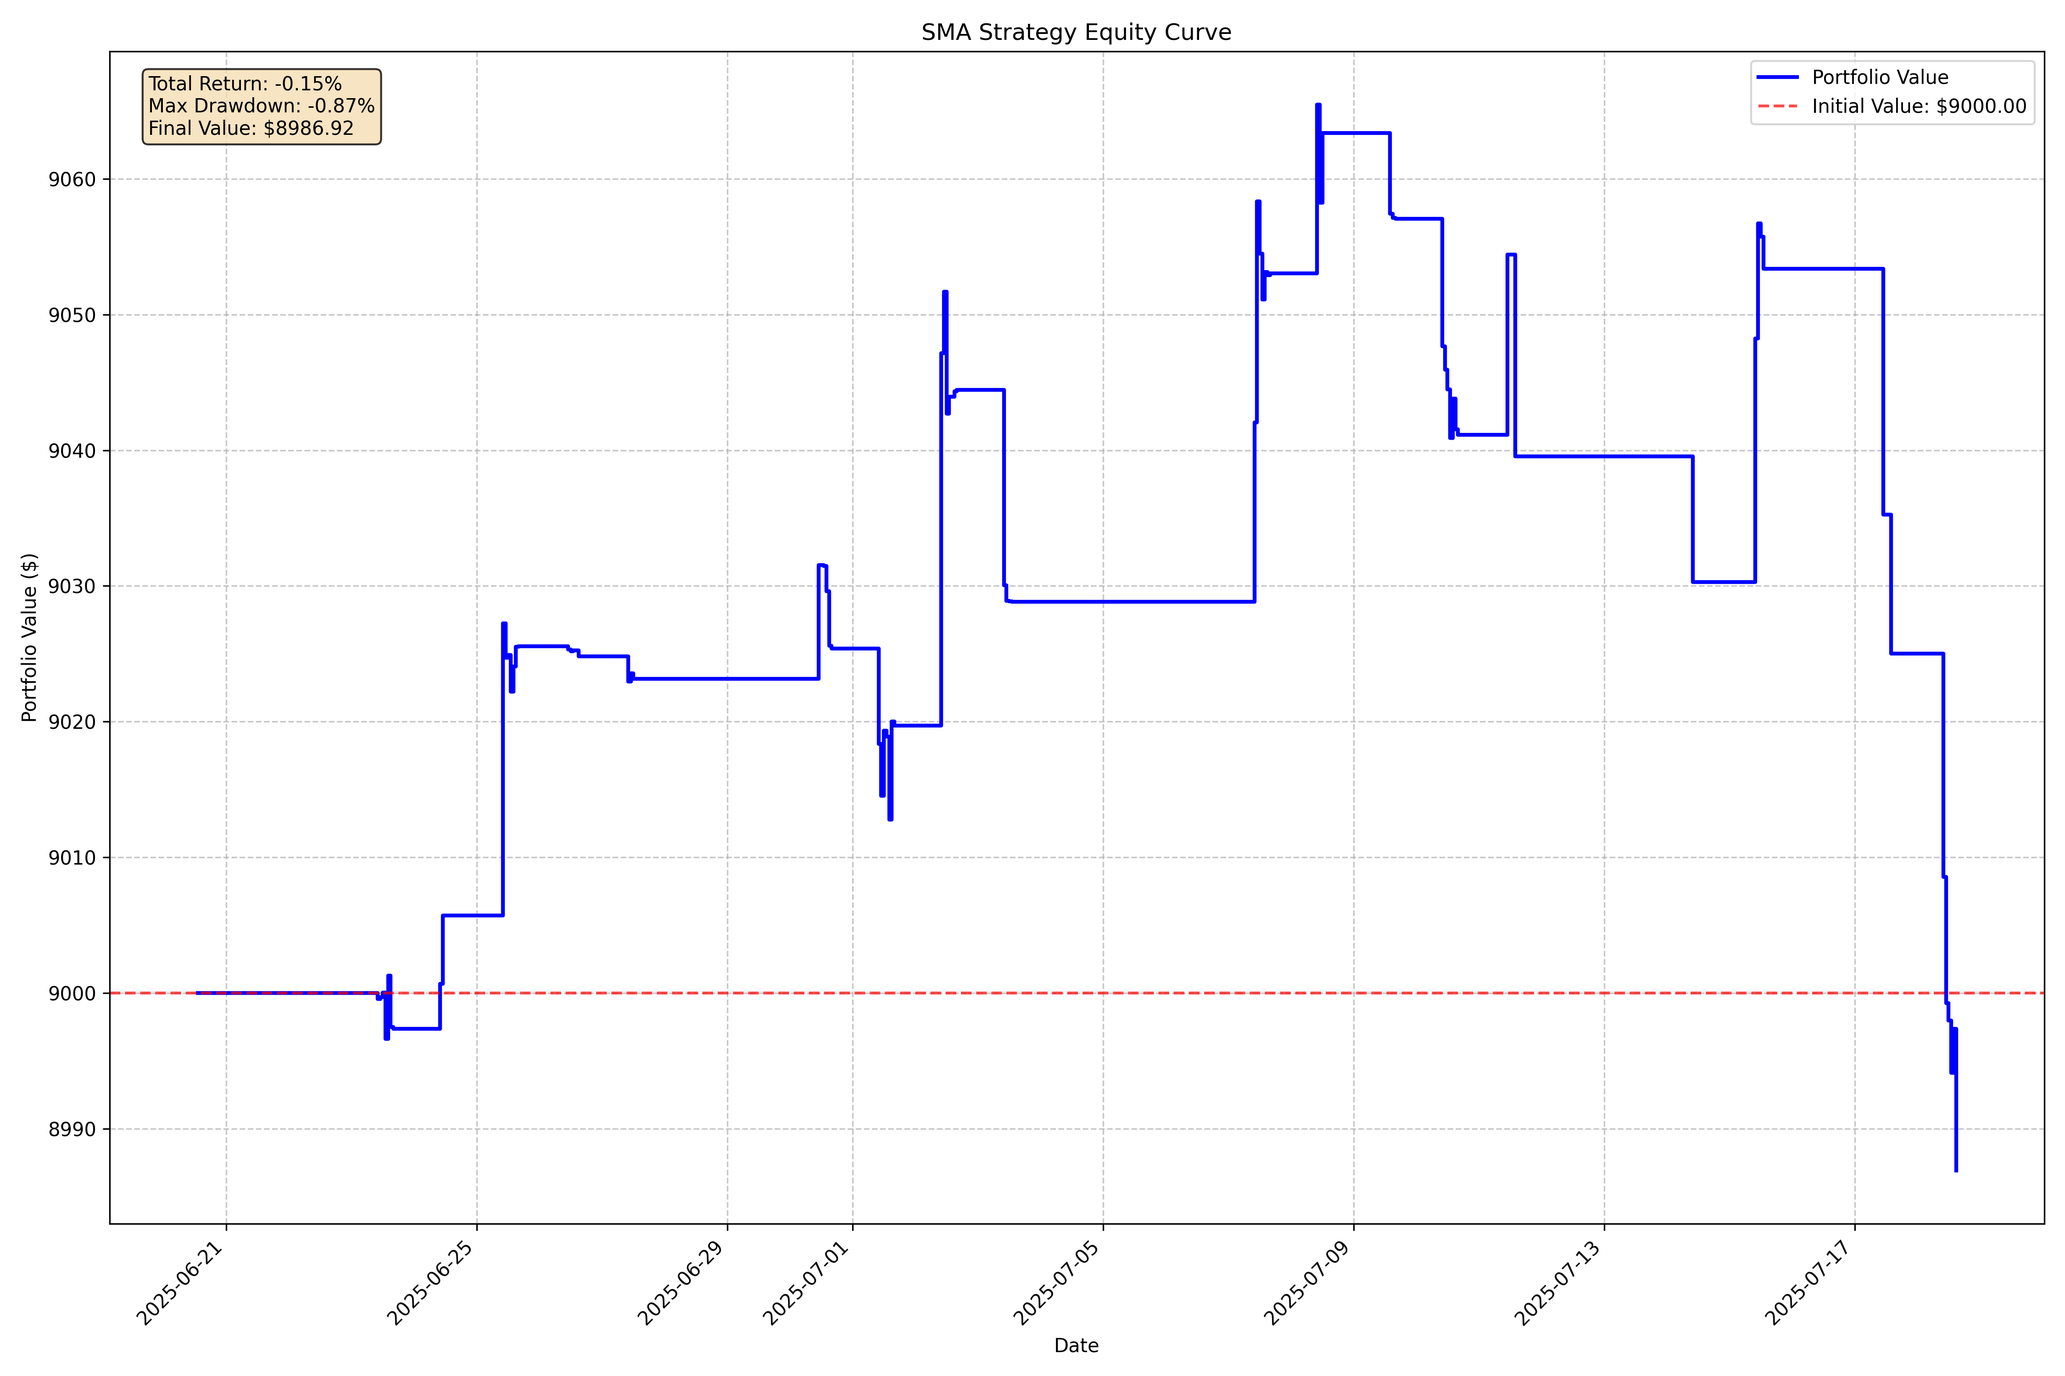
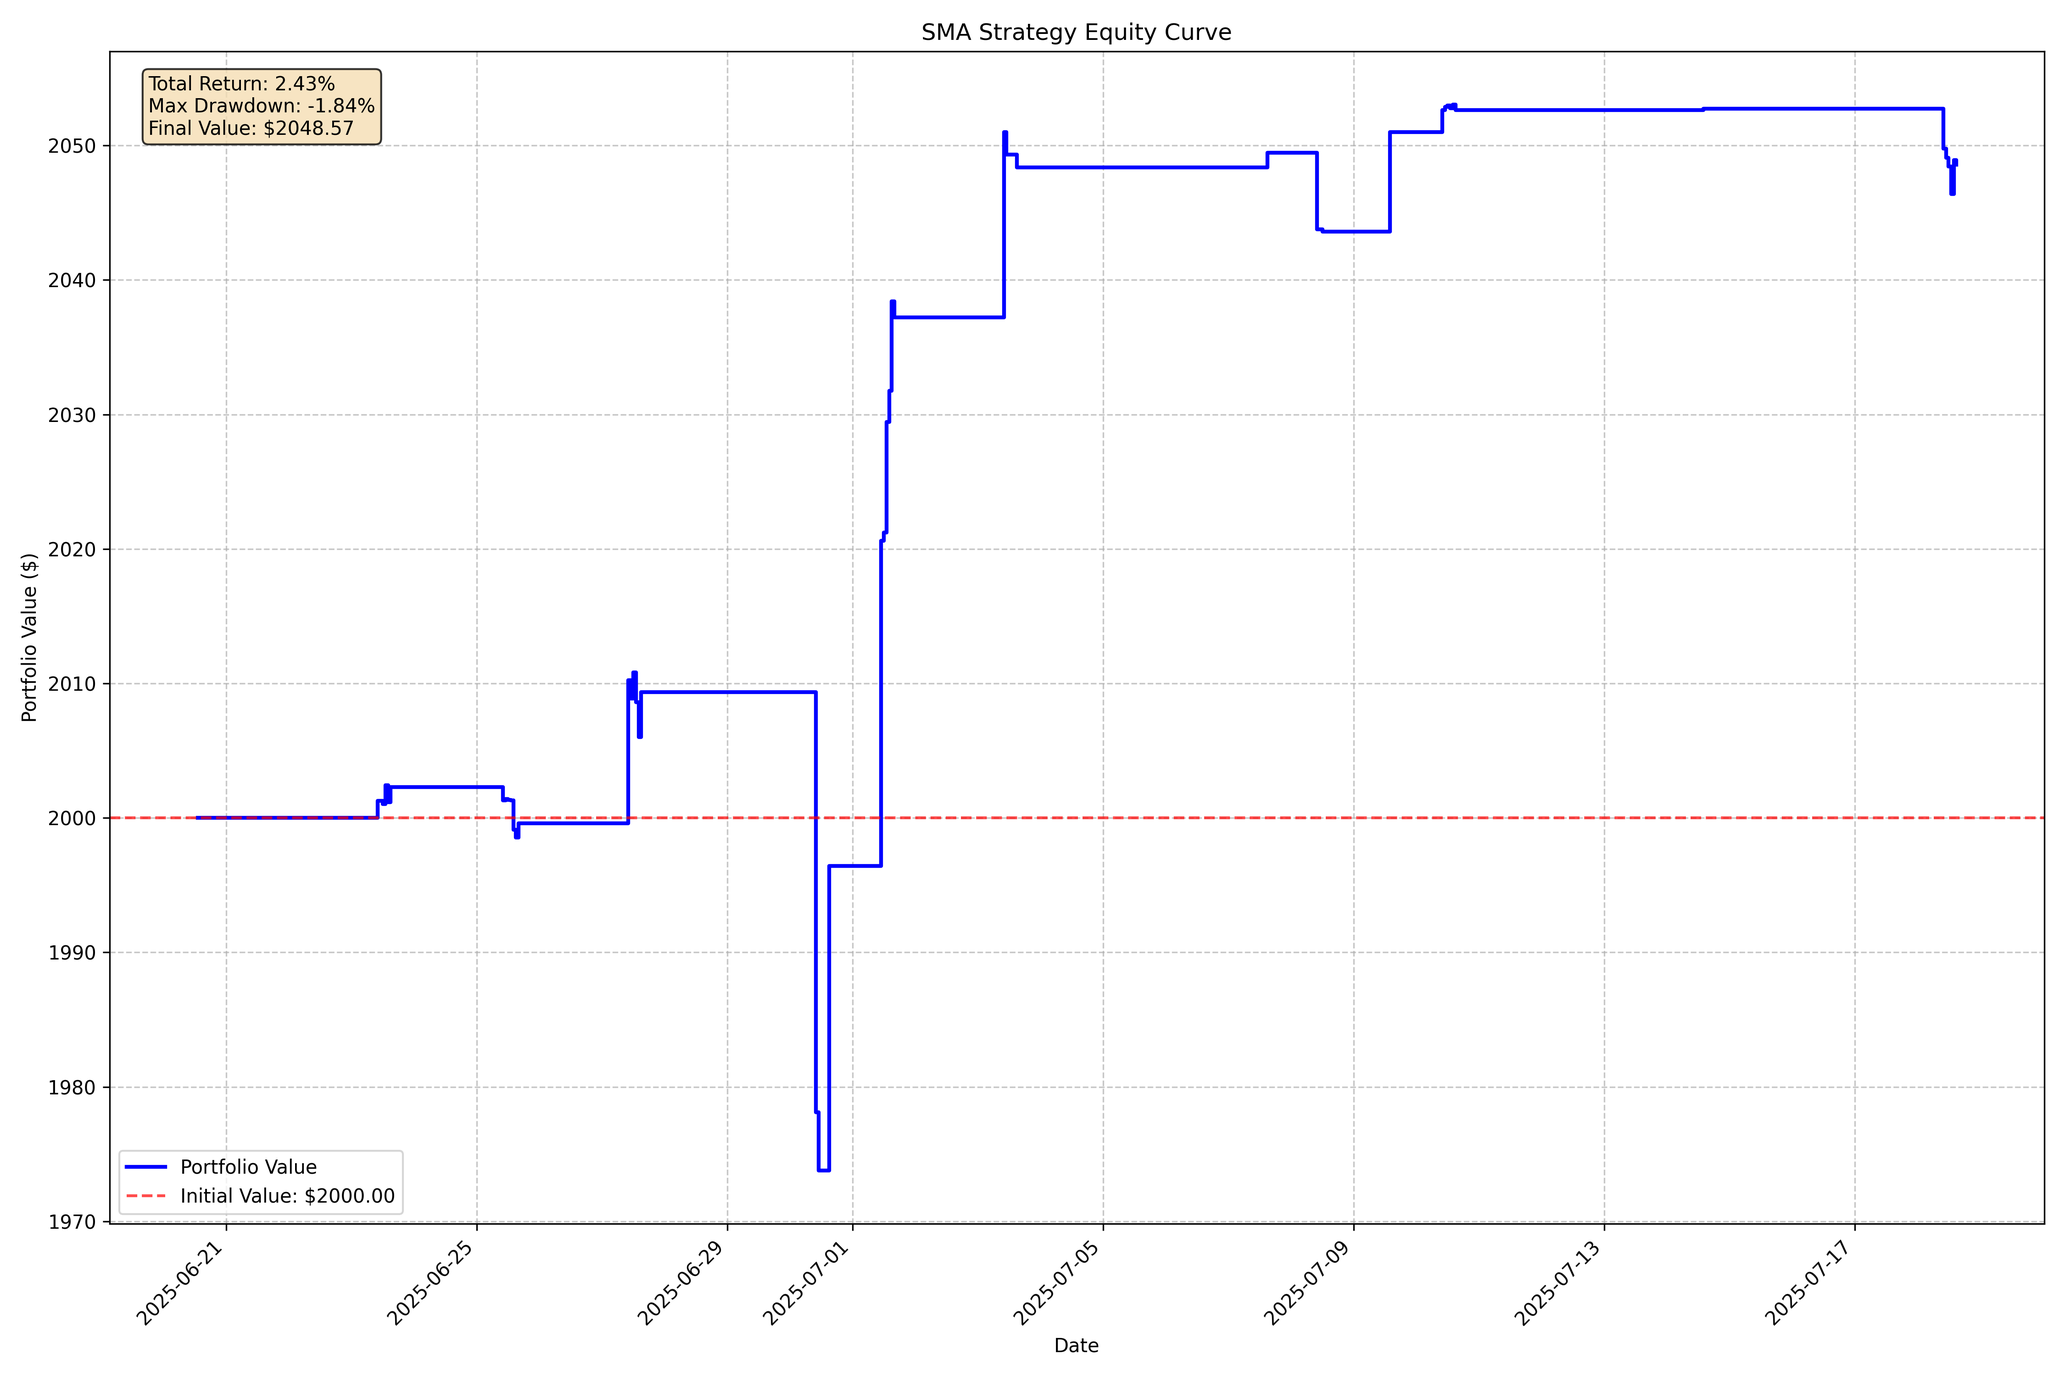
add documentation

diff --git a/src/backtester.py b/src/backtester.py
@@ -16,7 +16,7 @@ except ImportError:
     from __init__ import Position, get_logger
 
 from src.utilities import dash, load_dataframe
-from src.utilities.bars import download_bars, download_close_prices, split_bars_train_test
+from src.utilities.bars import download_bars, download_close_prices, separate_bars_by_symbol, split_bars_train_test
 from src.utilities.market import is_market_open
 from src.utilities.plotting import DEFAULT_FIGSIZE, plt_show
 
@@ -33,26 +33,26 @@ class EventBacktester(ABC):
     - order_history: the history of orders placed.
 
     Functions to be overridden:
-    - preload: preload the indicators for the backtest. Optional.
+    - precompute_step: precompute_step the indicators for the backtest. Optional.
     - update_step: update the indicators for the backtest at each time step. Optional.
     - take_action: make a decision based on the indicators and the latest bar.
 
     The backtester is designed to run purely on the test dataset.
-    If the user wants to preload the train bars, they must call the load_train_bars method before running the backtest.
-    This calls the preload method with the train bars and sets the train_bars attribute. This is useful to ensure a seamless
+    If the user wants to precompute_step the train bars, they must call the load_train_bars method before running the backtest.
+    This calls the precompute_step method with the train bars and sets the train_bars attribute. This is useful to ensure a seamless
     transition from train to test data, like in production. Indicators and models relying on lags need historical data at the start
     of the testing period.
 
     These structures are updated based on the events that occur, and are used to calculate the performance of the backtester.
     The user may want to override the run method to handle the events.
 
-    To use this class, the user must override the take_action method. If necessary, the user can override the preload and update_step methods.
+    To use this class, the user must override the take_action method. If necessary, the user can override the precompute_step and update_step methods.
     The user can call the run method to run the backtest.
 
     The backtester is designed to be used with a multi-index dataframe of bars. The index is (ticker, timestamp) and the columns are OHLCV.
     Example:
                                                 open    high  ...    volume  trade_count
-        symbol timestamp                                   ...                       
+        symbol timestamp                                   ...
         CMS    2023-01-03 09:00:00-05:00   58.560   58.93  ...  171942.0       1941.0
                2023-01-03 10:00:00-05:00   58.330   58.36  ...  169171.0       3700.0
                2023-01-03 11:00:00-05:00   58.340   58.38  ...   98527.0       2302.0
@@ -187,7 +187,7 @@ class EventBacktester(ABC):
         else:
             self.order_history = pd.concat([self.order_history, new_history])
 
-    def place_buy_order(self, ticker: str, price: float, quantity: float, index: pd.Timestamp):
+    def _place_buy_order(self, ticker: str, price: float, quantity: float, index: pd.Timestamp):
         """
         Place a buy order for a given ticker.
         """
@@ -195,7 +195,7 @@ class EventBacktester(ABC):
         self._update_state(ticker, price, quantity, Position.LONG, index)
         self._update_history(ticker, price, quantity, Position.LONG, index)
 
-    def place_sell_order(self, ticker: str, price: float, quantity: float, index: pd.Timestamp):
+    def _place_sell_order(self, ticker: str, price: float, quantity: float, index: pd.Timestamp):
         """
         Place a sell order for a given ticker.
         """
@@ -203,16 +203,16 @@ class EventBacktester(ABC):
         self._update_state(ticker, price, quantity, Position.SHORT, index)
         self._update_history(ticker, price, quantity, Position.SHORT, index)
 
-    def place_order(self, order: Position, index: pd.Timestamp, ticker: str, price: float, quantity: float):
+    def _place_order(self, order: Position, index: pd.Timestamp, ticker: str, price: float, quantity: float):
         """
         Place an order for a given ticker.
         """
         if order == Position.LONG:
-            self.place_buy_order(ticker, price, quantity, index)
+            self._place_buy_order(ticker, price, quantity, index)
         elif order == Position.SHORT:
-            self.place_sell_order(ticker, price, quantity, index)
+            self._place_sell_order(ticker, price, quantity, index)
 
-    def close_positions(self, prices: pd.Series, index: pd.Timestamp):
+    def _close_positions(self, prices: pd.Series, index: pd.Timestamp):
         """
         Close all positions at the given prices.
 
@@ -223,10 +223,10 @@ class EventBacktester(ABC):
             if self.get_state()[ticker] != 0:
                 position = self.get_state()[ticker]
                 if position > 0:
-                    self.place_sell_order(
+                    self._place_sell_order(
                         ticker, prices[ticker], abs(position), index)
                 else:
-                    self.place_buy_order(
+                    self._place_buy_order(
                         ticker, prices[ticker], abs(position), index)
 
     def run(self, test_bars: pd.DataFrame, ignore_market_open: bool = False, close_positions: bool = True):
@@ -286,7 +286,7 @@ class EventBacktester(ABC):
 
             if close_positions and index == timestamps[-2]:
                 logger.info(f"Closing positions at {index}...")
-                self.close_positions(full_bars.xs(
+                self._close_positions(full_bars.xs(
                     index, level=1).loc[:, "close"], index)
                 break
         # return the state history
@@ -357,7 +357,7 @@ class EventBacktester(ABC):
         assert isinstance(
             train_bars.index.get_level_values(1)[0], pd.Timestamp), "Bars must have a timestamp index"
         self.train_bars = train_bars
-        self.preload(train_bars)
+        self.precompute_step(train_bars)
 
     def plot_equity_curve(self, figsize: tuple = DEFAULT_FIGSIZE, title: str = "Equity Curve", save_plot: bool = True, show_plot: bool = False) -> plt.Figure:
         """
@@ -566,7 +566,7 @@ class EventBacktester(ABC):
 
         return fig
 
-    def plot_trade_history(self, figsize: tuple = (20, 12), save_plot: bool = True, show_plot: bool = False, title: str = "Trade History") -> plt.Figure:
+    def plot_trade_history(self, figsize: tuple = (20, 12), save_plot: bool = True, show_plot: bool = False, title: str = "Trade History", summary_stats: bool = False) -> plt.Figure:
         """
         Plot the price history with trade markers showing buy and sell orders.
 
@@ -654,7 +654,7 @@ class EventBacktester(ABC):
                 ax.grid(True, linestyle='--', alpha=0.3)
 
                 # Add summary statistics
-                if not ticker_trades.empty:
+                if not ticker_trades.empty and summary_stats:
                     total_trades = len(ticker_trades)
                     total_volume = ticker_trades['quantity'].sum()
                     avg_price = (
@@ -691,7 +691,7 @@ class EventBacktester(ABC):
     ################################################################################################
     ################################################################################################
 
-    def preload(self, train_bars: pd.DataFrame):
+    def precompute_step(self, train_bars: pd.DataFrame):
         """
         Preload the indicators for the backtest. This is meant to be overridden by the child class.
 
@@ -757,49 +757,7 @@ class WalkForwardBacktester(EventBacktester, ABC):
         remainder = len(prices) % walk_forward_periods
 
         # we want the strategy to train on
-
-
-class SMABacktester(EventBacktester):
-    """
-    Backtester that uses a simple moving average strategy.
-    """
-
-    def __init__(self, active_tickers: list[str], cash: float = 100):
-        super().__init__(active_tickers, cash)
-        self.short_window = 5
-        self.long_window = 21
-
-    def preload(self, bars: pd.DataFrame):
-        """
-        Preload the indicators for the backtest.
-        """
-        self.sma_shorts = {ticker: bars.xs(ticker, level=0).loc[:, "close"].rolling(
-            window=self.short_window).mean() for ticker in self.active_tickers}
-        self.sma_longs = {ticker: bars.xs(ticker, level=0).loc[:, "close"].rolling(
-            window=self.long_window).mean() for ticker in self.active_tickers}
-
-    def update_step(self, bars: pd.DataFrame, index: pd.Timestamp):
-        """
-        Update the state of the backtester.
-        """
-        # update the indicators
-        self.sma_shorts = {ticker: bars.xs(ticker, level=0).loc[:, "close"].rolling(
-            window=self.short_window).mean() for ticker in self.active_tickers}
-        self.sma_longs = {ticker: bars.xs(ticker, level=0).loc[:, "close"].rolling(
-            window=self.long_window).mean() for ticker in self.active_tickers}
-
-    def take_action(self, bar: pd.DataFrame, index: pd.Timestamp):
-        """
-        Make a decision based on the prices.
-        """
-        close_prices = bar.loc[:, "close"]
-        for ticker in self.active_tickers:
-            if self.sma_shorts[ticker][index] > self.sma_longs[ticker][index]:
-                self.place_order(Position.LONG, index,
-                                 ticker, close_prices[ticker], 1)
-            else:
-                self.place_order(Position.SHORT, index,
-                                 ticker, close_prices[ticker], 1)
+        raise NotImplementedError()
 
 
 class KeltnerChannelBacktester(EventBacktester):
@@ -811,27 +769,30 @@ class KeltnerChannelBacktester(EventBacktester):
         super().__init__(active_tickers, cash)
         self.keltner_channel_period = 21
 
-    def preload(self, bars: pd.DataFrame):
+    def precompute_step(self, bars: pd.DataFrame):
         """
         Preload the indicators for the backtest.
         """
-        self.middle_bands = {ticker: EMA(bars.xs(
-            ticker, level=0).loc[:, "close"], timeperiod=self.keltner_channel_period) for ticker in self.active_tickers}
-        self.upper_bands = {ticker: self.middle_bands[ticker] + 2 * ATR(bars.xs(ticker, level=0).loc[:, "high"], bars.xs(
-            ticker, level=0).loc[:, "low"], bars.xs(ticker, level=0).loc[:, "close"], timeperiod=self.keltner_channel_period) for ticker in self.active_tickers}
-        self.lower_bands = {ticker: self.middle_bands[ticker] - 2 * ATR(bars.xs(ticker, level=0).loc[:, "high"], bars.xs(
-            ticker, level=0).loc[:, "low"], bars.xs(ticker, level=0).loc[:, "close"], timeperiod=self.keltner_channel_period) for ticker in self.active_tickers}
+
+        split_bars = separate_bars_by_symbol(bars)
+        self.middle_bands = {ticker: EMA(
+            split_bars[ticker].loc[:, "close"], timeperiod=self.keltner_channel_period) for ticker in self.active_tickers}
+        self.upper_bands = {ticker: self.middle_bands[ticker] + 2 * ATR(split_bars[ticker].loc[:, "high"], split_bars[ticker].loc[:, "low"],
+                                                                        split_bars[ticker].loc[:, "close"], timeperiod=self.keltner_channel_period) for ticker in self.active_tickers}
+        self.lower_bands = {ticker: self.middle_bands[ticker] - 2 * ATR(split_bars[ticker].loc[:, "high"], split_bars[ticker].loc[:, "low"],
+                                                                        split_bars[ticker].loc[:, "close"], timeperiod=self.keltner_channel_period) for ticker in self.active_tickers}
 
     def update_step(self, bars: pd.DataFrame, index: pd.Timestamp):
         """
         Update the state of the backtester.
         """
-        self.middle_bands = {ticker: EMA(bars.xs(
-            ticker, level=0).loc[:, "close"], timeperiod=self.keltner_channel_period) for ticker in self.active_tickers}
-        self.upper_bands = {ticker: self.middle_bands[ticker] + 2 * ATR(bars.xs(ticker, level=0).loc[:, "high"], bars.xs(
-            ticker, level=0).loc[:, "low"], bars.xs(ticker, level=0).loc[:, "close"], timeperiod=self.keltner_channel_period) for ticker in self.active_tickers}
-        self.lower_bands = {ticker: self.middle_bands[ticker] - 2 * ATR(bars.xs(ticker, level=0).loc[:, "high"], bars.xs(
-            ticker, level=0).loc[:, "low"], bars.xs(ticker, level=0).loc[:, "close"], timeperiod=self.keltner_channel_period) for ticker in self.active_tickers}
+        split_bars = separate_bars_by_symbol(bars)
+        self.middle_bands = {ticker: EMA(
+            split_bars[ticker].loc[:, "close"], timeperiod=self.keltner_channel_period) for ticker in self.active_tickers}
+        self.upper_bands = {ticker: self.middle_bands[ticker] + 2 * ATR(split_bars[ticker].loc[:, "high"], split_bars[ticker].loc[:, "low"],
+                                                                        split_bars[ticker].loc[:, "close"], timeperiod=self.keltner_channel_period) for ticker in self.active_tickers}
+        self.lower_bands = {ticker: self.middle_bands[ticker] - 2 * ATR(split_bars[ticker].loc[:, "high"], split_bars[ticker].loc[:, "low"],
+                                                                        split_bars[ticker].loc[:, "close"], timeperiod=self.keltner_channel_period) for ticker in self.active_tickers}
 
     def take_action(self, bar: pd.DataFrame, index: pd.Timestamp):
         """
@@ -840,15 +801,15 @@ class KeltnerChannelBacktester(EventBacktester):
         close_prices = bar.loc[:, "close"]
         for ticker in self.active_tickers:
             if close_prices[ticker] > self.upper_bands[ticker][index]:
-                self.place_order(Position.SHORT, index,
-                                 ticker, close_prices[ticker], 1)
+                self._place_order(Position.SHORT, index,
+                                  ticker, close_prices[ticker], 1)
             elif close_prices[ticker] < self.lower_bands[ticker][index]:
-                self.place_order(Position.LONG, index,
-                                 ticker, close_prices[ticker], 1)
+                self._place_order(Position.LONG, index,
+                                  ticker, close_prices[ticker], 1)
 
 
 if __name__ == "__main__":
-    tickers = ["CMS", "DTE"]
+    tickers = ["NEE", "EXC"]
     utility_tickers = [
         "NEE", "EXC", "D", "PCG", "XEL",
         "ED", "WEC", "DTE", "PPL", "AEE",
@@ -856,12 +817,11 @@ if __name__ == "__main__":
         "EVRG", "LNT", "PNW", "IDA", "AEP",
         "DUK", "SRE", "ATO", "NRG",
     ]
-
     bars = download_bars(tickers, start_date=datetime(
         2024, 1, 1), end_date=datetime.now() - timedelta(minutes=15), timeframe=TimeFrame.Hour)
 
     train_bars, test_bars = split_bars_train_test(bars, split_ratio=0.95)
-    backtester = KeltnerChannelBacktester(tickers, cash=9000)
+    backtester = KeltnerChannelBacktester(tickers, cash=2000)
     backtester.load_train_bars(train_bars)
     backtester.run(test_bars, ignore_market_open=False)
 

diff --git a/README.md b/README.md
@@ -61,7 +61,26 @@ python -m unittest discover test
 
 Central to this project is the backtester module. The `EventBacktester` is designed for the user to make their own strategies, by inheriting from `EventBacktester` and implementing just one or more methods. 
 
-Example:
+#### Methods
+
+The `EventBacktester` class has the following predefined user-facing methods:
+
+- `load_train_bars(bars: pd.DataFrame)`: Load the training bars for the backtest. This method then calls the `precompute_step` method.
+- `run(test_bars: pd.DataFrame, ignore_market_open: bool = False, close_positions: bool = True)`: Run the backtest.
+- `plot_equity_curve(title: str = "Equity Curve", save_plot: bool = True, show_plot: bool = False)`: Plot the equity curve.
+- `plot_performance_analysis(title: str = "Performance Analysis", save_plot: bool = True, show_plot: bool = False)`: Plot the performance analysis.
+- `plot_trade_history(title: str = "Trade History", save_plot: bool = True, show_plot: bool = False)`: Plot the trade history.
+- `analyze_performance()`: Analyze the performance of the backtest.
+
+The user must implement the following methods:
+
+- `take_action(bar: pd.DataFrame, index: pd.Timestamp)`: Make a decision based on the prices. This method is called by `run`.
+- `update_step(bars: pd.DataFrame, index: pd.Timestamp)`: Update the state of the backtester. This method is called by `run`.
+- (optional) `precompute_step(bars: pd.DataFrame)`: Preload the indicators for the backtest. This method is called by `load_train_bars`.
+
+In a typical workflow, the user will implement the `take_action` and `update_step` methods, and optionally the `precompute_step` method. The user will first call the `load_train_bars` method to load the training bars into the backtester. This method then calls the `precompute_step` method, which the user must implement. The user can then call the `run` method to run the backtest. This method will call the `update_step` method for each bar in the test bars, and then call the `take_action` method for each bar in the test bars.
+
+#### Example
 
 1. Create a class that inherits from `EventBacktester`. Here is a simple SMA crossover strategy in `src/backtester.py`.
 ```python
